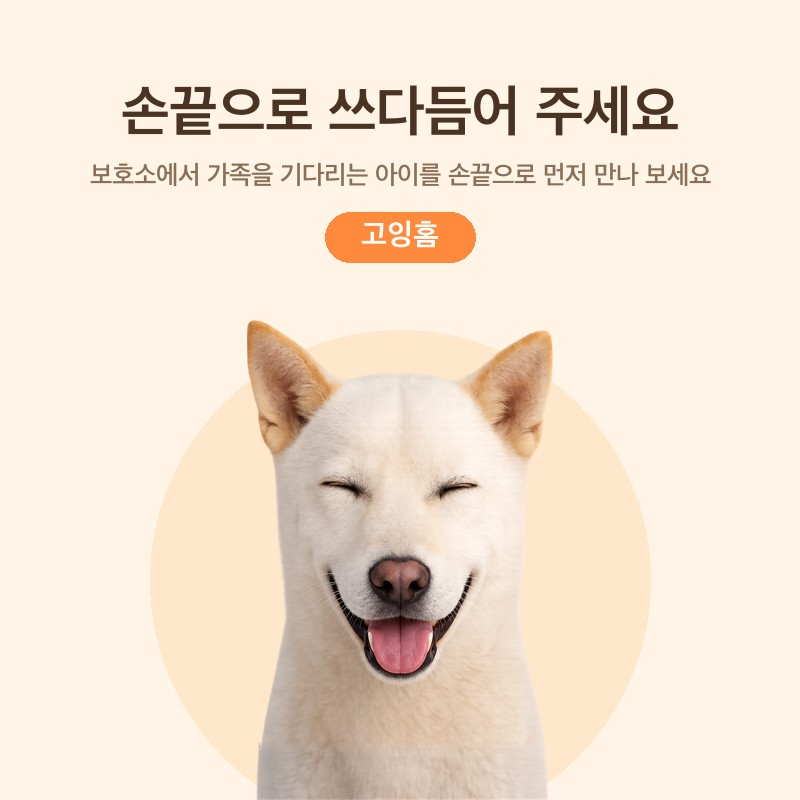
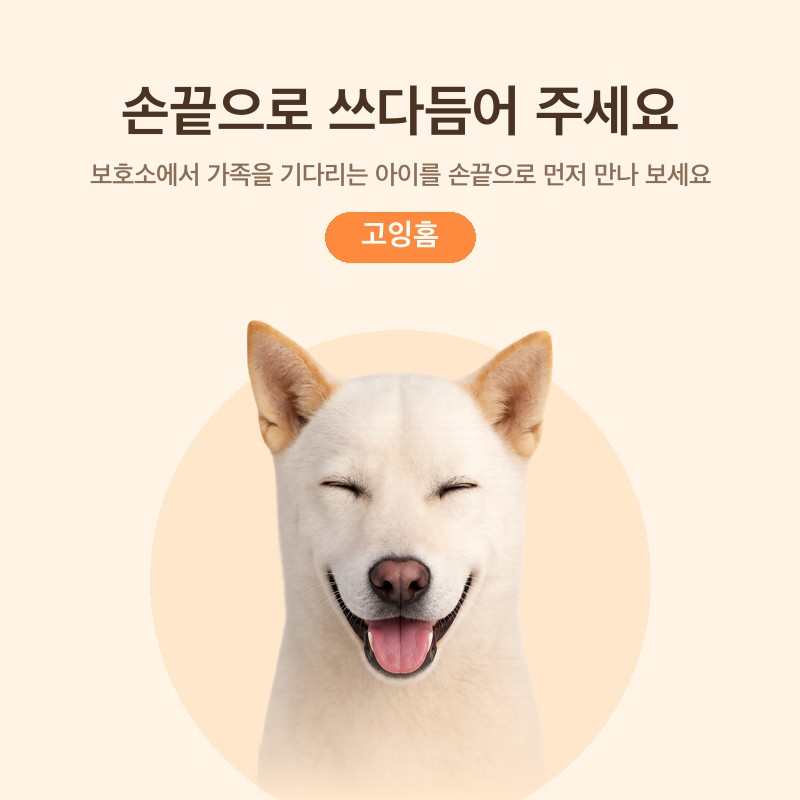
집계: 광고 유입(?src=ad_yt/ad_dg/ad_x) land_from_ad + 탭 안 이후 이벤트에 채널 표시, 미리보기 이미지 몸통 아래 흐리게(v2)

Changed region(s): [[0.3125, 0.8438, 0.6875, 1.0], [0.4375, 0.8125, 0.5312, 0.8438]]

diff --git a/src/analytics.ts b/src/analytics.ts
@@ -12,6 +12,9 @@
  * 개인 정보·사진 정보는 넣지 않는다. 공유 링크에는 익명 파라미터 두 개만 붙인다:
  *   gen  공유 세대 (처음 공유 1, 받은 링크로 들어와 다시 공유하면 받은 gen + 1)
  *   src  보낸 경로 (pet / site / mine)
+ * 광고 유입 (2026-10-06): 광고 링크는 ?src=ad_yt(유튜브 쇼츠) / ad_dg(당근) / ad_x(X). 들어오면 land_from_ad를 세고,
+ * 그 탭 안에서는 채널을 기억해 이후 모든 이벤트 제목에 ch=ad_…를 붙인다 (sessionStorage, 쿠키·개인 정보 없음).
+ * 그 사람이 다시 공유한 링크는 평소처럼 gen+1, src=pet/site/mine이다.
  * 매 프레임 루프에서는 부르지 않는다 (이벤트 때만, 렉 없는 것이 먼저).
  * K = 공유율 × 받은 사람 전환율 → share_done / make_result 와 (invite_click 또는 share_click) / land_from_share 로 본다.
  */
@@ -19,6 +22,7 @@ import { GOATCOUNTER_CODE } from './site'
 
 type GoatCounter = { count: (v: { path: string; title?: string; event?: boolean }) => void }
 const GEN_KEY = 'goinghome.gen'
+const CHANNEL_KEY = 'goinghome.ch'
 
 let loading: Promise<GoatCounter | null> | null = null
 function counter(): Promise<GoatCounter | null> {
@@ -35,7 +39,7 @@ function counter(): Promise<GoatCounter | null> {
 
 /** 이벤트 하나 보내기 (실패해도 조용히 넘어간다) */
 export function track(name: string, info: Record<string, string | number | undefined> = {}) {
-  const title = Object.entries(info)
+  const title = Object.entries({ ...info, ch: adChannel() })
     .filter(([, v]) => v !== undefined && v !== '')
     .map(([k, v]) => `${k}=${v}`)
     .join(' ')
@@ -62,6 +66,24 @@ export function landedGen(): number {
   }
 }
 
+/** 광고로 들어온 탭이면 그 채널 (ad_yt / ad_dg / ad_x), 아니면 undefined */
+export function adChannel(): string | undefined {
+  const q = new URLSearchParams(location.search).get('src') ?? ''
+  if (/^ad_[a-z]+$/.test(q)) {
+    try {
+      sessionStorage.setItem(CHANNEL_KEY, q)
+    } catch {
+      /* 저장이 막혀도 이번 화면에서는 쓴다 */
+    }
+    return q
+  }
+  try {
+    return sessionStorage.getItem(CHANNEL_KEY) ?? undefined
+  } catch {
+    return undefined
+  }
+}
+
 /** 공유 링크에 붙일 파라미터 */
 export function shareParams(src: 'pet' | 'site' | 'mine') {
   return { gen: String(landedGen() + 1), src }
@@ -73,3 +95,4 @@ if (GOATCOUNTER_CODE) (window.requestIdleCallback ?? ((f: () => void) => setTime
 // 처음 불러올 때: 공유 링크로 들어왔으면 한 번 센다
 const q = new URLSearchParams(location.search)
 if (q.get('from') === 'share') track('land_from_share', { gen: landedGen(), src: q.get('src') ?? undefined })
+else if (/^ad_[a-z]+$/.test(q.get('src') ?? '')) track('land_from_ad', { src: q.get('src')! })

diff --git a/src/main.ts b/src/main.ts
@@ -1,6 +1,6 @@
 import './style.css'
 import { registerPwa } from './pwa'
-import { landedGen, track } from './analytics'
+import { adChannel, landedGen, track } from './analytics'
 import type { NormalizedLandmark } from '@mediapipe/tasks-vision'
 import { HandTracker, HAND_CONNECTIONS, PALM_POINTS, isOfferingHand, isOpenHand, isPinchHand } from './hand'
 import { Voice } from './voice'
@@ -802,8 +802,8 @@ function updateFur(dt: number, inputs: PetInput[]) {
     const hit = pet.contactZone(input)
     const zone = input.active || hit === 'chin' ? hit : null
     const touch = !!zone
-    // 공유 링크로 들어온 사람이 처음 쓰다듬은 순간 (한 번만 센다)
-    if (touch && fromShare && !firstPetSent) {
+    // 공유 링크·광고로 들어온 사람이 처음 쓰다듬은 순간 (한 번만 센다)
+    if (touch && !firstPetSent && (fromShare || adChannel())) {
       firstPetSent = true
       track('first_pet', { gen: landedGen(), pet: isShelter(pet.p) ? pet.p.id : undefined })
     }

diff --git a/src/site.ts b/src/site.ts
@@ -9,7 +9,7 @@ export const SITE_URL = 'https://hyee0ne.github.io/goinghome/'
 export const SITE_LABEL = SITE_URL.replace(/^https?:\/\//, '').replace(/\/$/, '')
 
 /** 미리보기 이미지 버전: 카톡은 이미지를 캐시해서 디버거로도 안 지워진다. 이미지를 바꾸면 숫자를 올린다 */
-export const OG_IMAGE_VERSION = 1
+export const OG_IMAGE_VERSION = 2
 
 /**
  * 집계 (GoatCounter, 쿠키 없는 무료 집계). 사이트 코드를 넣으면 켜진다. 비어 있으면 아무것도 보내지 않는다.
